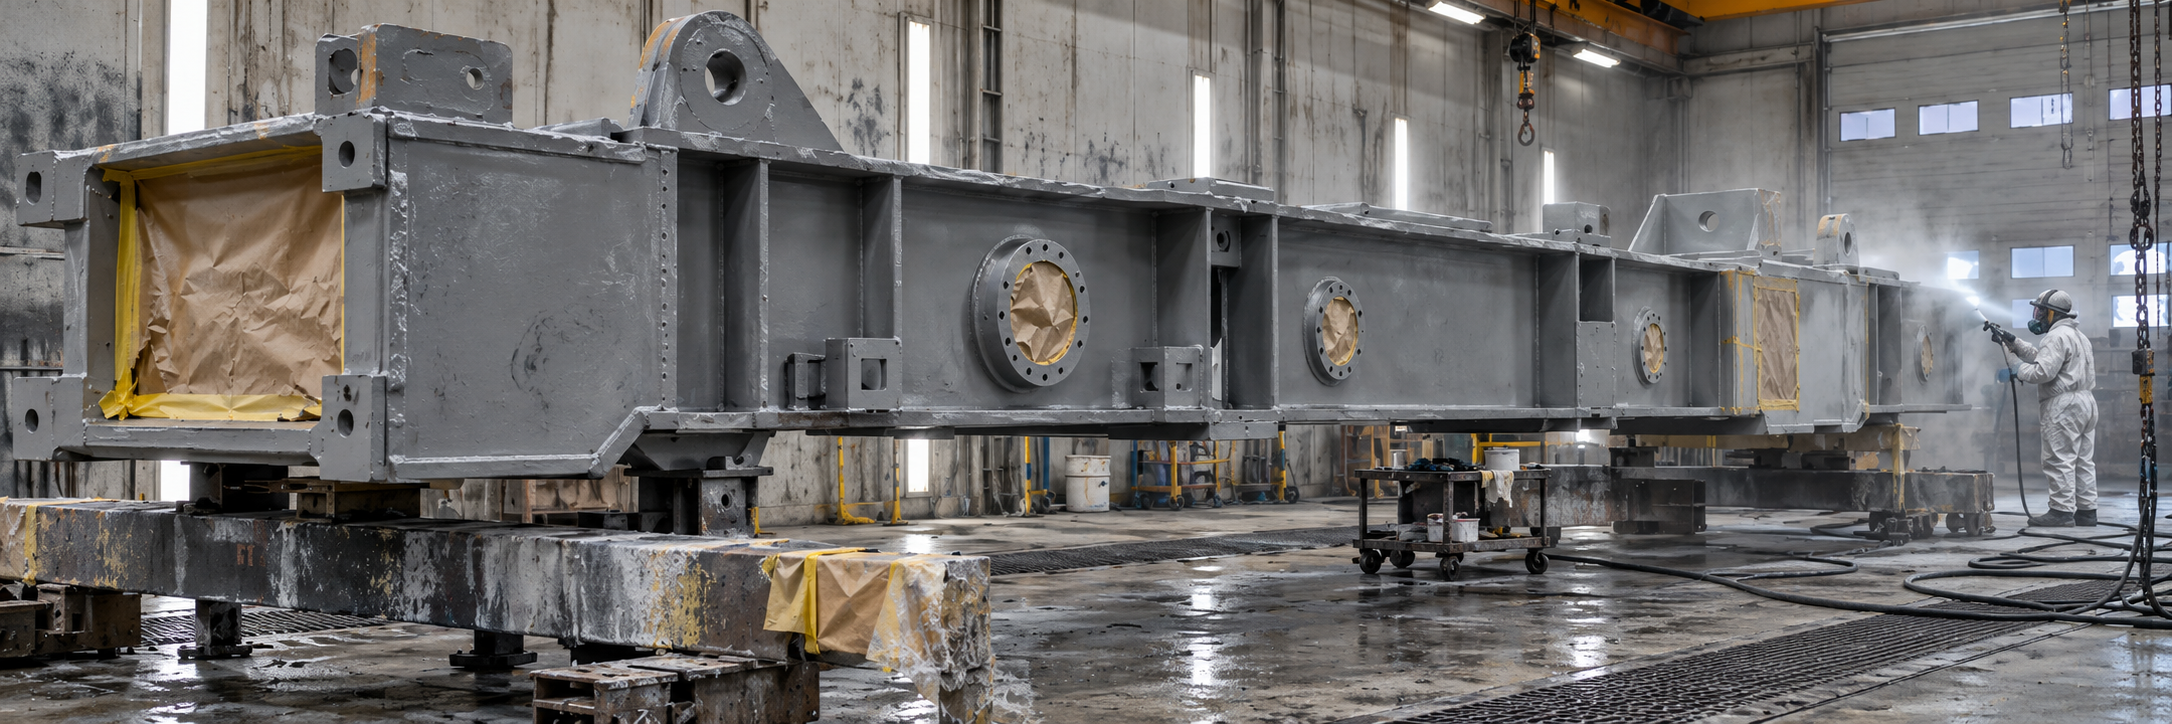
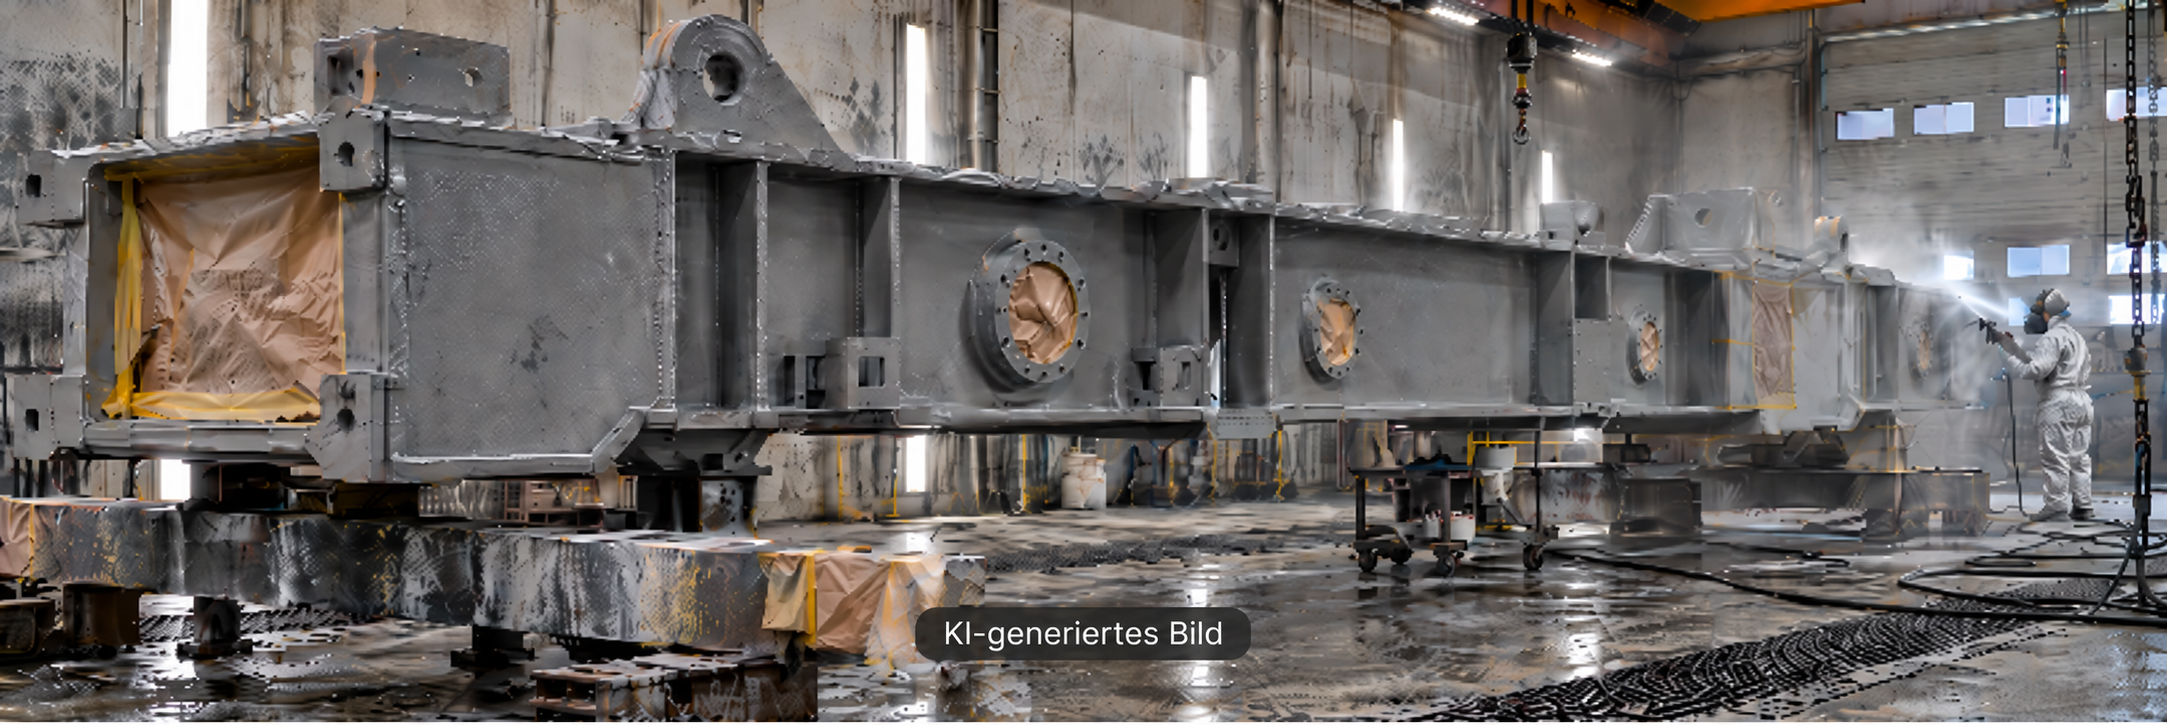
gtbg

diff --git a/src/app/page.tsx b/src/app/page.tsx
@@ -472,7 +472,7 @@ const showSkeletonLack = loadingLack
             </div>
 
             <div className={styles.imageContainer}>
-              <img src="/images/werbung.jpg" alt="Artikelbild" className={styles.articleImage} />
+              <img src="/images/werbung.png" alt="Artikelbild" className={styles.articleImage} />
             </div>
           </section>
 
